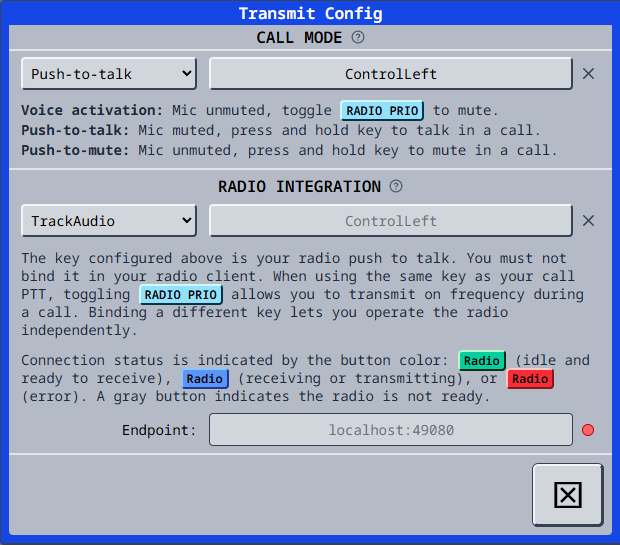
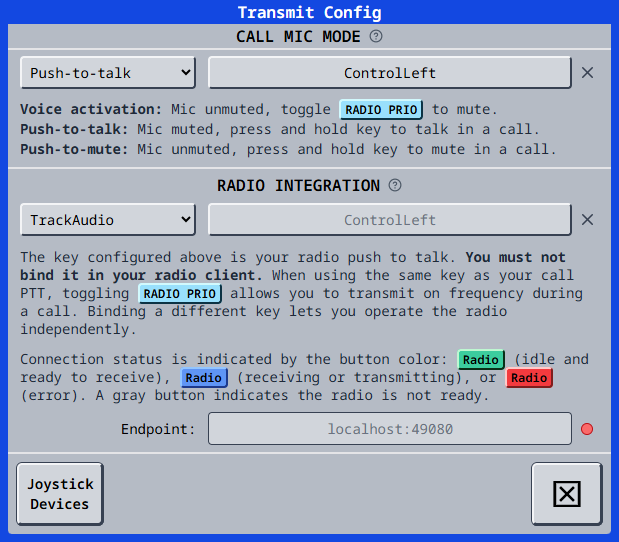
docs: prepare 2.6.0 release notes (#59)
* docs: reflect X11 hotkey and Audio for VATSIM support

* docs: document joystick bindings and keybind platform support

* docs: prepare 2.6.0 release notes

* docs: document joystick bindings and refresh the settings images

Covers binding a joystick button, the Joystick Devices dialog and the
platform support table.

The Hotkeys and Transmit dialog images predated the Joystick Devices button
that both dialogs now carry, and the Transmit ones still showed the pre-2.5
CALL MODE section, so all six are recaptured, along with the two images
showing how those pages are opened. The Hotkeys assign and clear callouts
are renumbered into the surrounding steps.

---------

diff --git a/docs/settings/hotkeys.md b/docs/settings/hotkeys.md
@@ -6,6 +6,8 @@ sidebar_position: 4
 
 The **Hotkeys Config** Menu allows you to assign keyboard shortcuts for common actions in vacs. These key bindings are optional, as all relevant actions can also be performed using Touch/Mouse Inputs.
 
+As of **vacs 2.6.0**, every binding field also accepts a **joystick or gamepad button**. See [Joystick and gamepad buttons](#joystick-and-gamepad-buttons) below.
+
 ---
 
 ## Opening Hotkeys Config
@@ -30,17 +32,17 @@ style={{
 
 To bind a key to an action:
 
-- Simply press the field showing **Not bound** or the relevant key binding next to the desired action.
-- Press the key (or key combination) you want to assign.
+- Simply press the field showing **Not bound** or the relevant key binding next to the desired action **(1)**.
+- Press the key (or key combination) you want to assign, or press a button on a connected joystick.
 - The field will update to display the selected binding.
 
 :::info[Clearing a Key Binding]
-Click the **✕** button on the right side of the row to remove the assigned key binding.
+Click the **✕** button on the right side of the row **(2)** to remove the assigned key binding.
 :::
 
 <img
 src="/img/settings/HotkeysConfigPage.png"
-alt="vacs Settings Page"
+alt="vacs Hotkeys Config, with the binding field and its clear button marked"
 style={{
     width: "45%",
     display: "block",
@@ -76,4 +78,85 @@ This action toggles the [RADIO PRIO](/using-vacs/making-a-call#radio-prio) butto
 The **RADIO PRIO** function is designed to operate together with the **Radio Integration** transmission mode.
 
 Its behavior and operational context are explained in detail in the **Interface / Overview** page.
+:::
+
+---
+
+## Joystick and gamepad buttons
+
+Available from **vacs 2.6.0**.
+
+Any binding in vacs can be a **joystick or gamepad button** instead of a keyboard key. This works for the actions on this page as well as for Push-to-Talk, Push-to-Mute and the Radio PTT key in the [Transmit Config](/settings/transmit).
+
+Typical devices for this are HOTAS throttles and yokes, flight sim button boxes, handsets and gamepads. No driver or configuration is required: connect the device before starting vacs, or plug it in while vacs is running, and its buttons become available immediately.
+
+### Binding a button
+
+Binding a button works exactly like binding a key:
+
+- Click the binding field. It shows **Press key or button** while it waits for your input.
+- Press the button on your device. You do not need to have the vacs window focused, and you do not need to keep it focused afterwards - joystick bindings work globally, just like keyboard bindings.
+- The field updates to show the button, for example **Button 3 (VPC Throttle)**.
+
+Only **buttons** can be bound. Axes, hats and triggers that report as an axis (common for gamepad triggers) cannot be used as a binding.
+
+<img
+src="/img/settings/HotkeysConfigPage-joystick.png"
+alt="vacs Hotkeys Config with an action bound to a joystick button"
+style={{
+    width: "45%",
+    display: "block",
+    margin: "1.5rem auto",
+    borderRadius: "8px",
+    boxShadow: "0 4px 16px rgba(0,0,0,0.08)"
+  }}
+/>
+
+:::note[How devices are recognized]
+vacs identifies a device by a hardware identifier rather than by the order it was plugged in, so your bindings survive unplugging the device, rebooting, and moving it to a different USB port.
+
+The flip side is that two **identical** devices (the same model twice) cannot be told apart. A binding made on one of them will also trigger on the other. Different products, for example a yoke and a throttle from the same manufacturer, are always distinguished correctly.
+:::
+
+### Joystick Devices
+
+Some devices, in particular flight sim throttles and button boxes, have **latched switches** rather than momentary buttons, or report a resting position as a permanently pressed button. Such a device reports "pressed" without you touching anything, which means it instantly wins any binding capture you start and makes it impossible to bind anything else.
+
+The **Joystick Devices** button in the header of the Hotkeys Config and Transmit Config dialogs opens a list of your devices where you can tick the ones vacs should **ignore while capturing**.
+
+<img
+src="/img/settings/JoystickDevices.png"
+alt="The Joystick Devices dialog with one device ignored"
+style={{
+    width: "45%",
+    display: "block",
+    margin: "1.5rem auto",
+    borderRadius: "8px",
+    boxShadow: "0 4px 16px rgba(0,0,0,0.08)"
+  }}
+/>
+
+The list contains every currently connected device, plus previously ignored devices that are unplugged right now, so their entry does not silently disappear.
+
+:::info
+Ignoring a device only excludes it from **capture**. Bindings you already made on that device keep working normally. This makes it a practical workflow for a chatty device: bind the button you want first, then tick the device so it stops interfering with your remaining bindings.
+:::
+
+---
+
+## Platform support
+
+Global bindings, meaning bindings that work while another application is focused, depend on what your operating system permits.
+
+| Platform | Keyboard keys | Joystick buttons |
+|---|---|---|
+| Windows | Bound in vacs. | Bound in vacs. |
+| macOS | Bound in vacs. Requires input monitoring and accessibility permissions, see [Requirements](/getting-started/requirements#macos). | Bound in vacs. |
+| Linux (X11) | Bound in vacs, from **vacs 2.6.0**. | Bound in vacs. |
+| Linux (Wayland) | Managed by your desktop environment, not by vacs. | Bound in vacs. |
+
+:::note[Linux with Wayland]
+Wayland does not allow an application to observe the keyboard while it is not focused. vacs therefore registers its actions as **system shortcuts** with your desktop environment, and you assign the actual keys there. The binding field shows the key your desktop has assigned in grey and cannot be edited in vacs; the **System Shortcuts** button next to **Joystick Devices** opens your desktop's shortcut settings.
+
+Joystick buttons are not affected by this restriction and are captured directly in vacs. Binding a joystick button to an action **replaces** the desktop shortcut for that action, and removing the button restores it.
 :::

diff --git a/docs/settings/transmit.md b/docs/settings/transmit.md
@@ -73,6 +73,10 @@ No key-binding is available or required in the **CALL MIC MODE** part of the dia
 
 Audio is transmitted only while the corresponding key is pressed. Assign a key by clicking into the field next to the mode dropdown and pressing your desired key once. Clear a binding with the **✕** button.
 
+:::tip[Joystick and gamepad buttons]
+From **vacs 2.6.0**, you can press a button on a connected joystick, HOTAS throttle or handset instead of a key, and vacs binds that button. This works for every binding field in this dialog. See [Joystick and gamepad buttons](/settings/hotkeys#joystick-and-gamepad-buttons).
+:::
+
 ### Push-to-Mute
 **Behavior during calls:**
 - The microphone is **unmuted by default**.
@@ -101,8 +105,8 @@ There are three options:
 - **TrackAudio**: vacs can connect to your TrackAudio client to trigger transmissions, manage radio & frequency state and play back radio transmissions.
 - **Audio for VATSIM**: vacs simulates a key press for you to trigger a radio transmission in AFV. The [radio page](/interface/radio) is not available. [Radio transmission playback](/interface/playback) is supported, but limited without callsign or frequency info, and only on Windows.
 
-:::warning[Audio for VATSIM is not available on Linux]
-The **Audio for VATSIM** integration relies on simulating a key press into the standalone AFV client, which is not supported on Linux. On Linux, only **None** and **TrackAudio** are available.
+:::warning[Audio for VATSIM is not available on Wayland]
+The **Audio for VATSIM** integration relies on simulating a key press into the standalone AFV client, which is not possible on Wayland-based Linux desktops. There, only **None** and **TrackAudio** are available. On X11 desktops, Audio for VATSIM works normally as of **vacs 2.6.0**; before that it was unavailable on Linux entirely.
 :::
 
 ### The Radio PTT key field

diff --git a/docs/getting-started/requirements.md b/docs/getting-started/requirements.md
@@ -24,8 +24,11 @@ Since vacs authenticates through [VATSIM Connect](https://vatsim.dev/services/co
 - An ALSA-compatible audio backend is required. This is usually automatically satisfied if you're running PulseAudio or Pipewire, which most modern Linux desktops use by default. The suggested audio packages are also included as dependencies for our packages
 
 :::note[Wayland users]
-If you're running a Wayland-based desktop (common on recent GNOME and KDE setups), there are some known issues and limitations. See the [Wayland](/known-issues-limitations/wayland) section of the [Known Issues & Limitations](/known-issues-limitations) page for details.  
-X11 support is currently limited.
+If you're running a Wayland-based desktop (common on recent GNOME and KDE setups), there are some known issues and limitations. See the [Wayland](/known-issues-limitations/wayland) section of the [Known Issues & Limitations](/known-issues-limitations) page for details.
+
+The most noticeable ones concern key bindings: on Wayland, keyboard shortcuts are managed by your desktop environment rather than by vacs, and the [Audio for VATSIM](/settings/transmit#radio-integration) radio integration cannot be used. See [Platform support](/settings/hotkeys#platform-support) for the full picture.
+
+X11 desktops are fully supported as of **vacs 2.6.0**, including global hotkeys and the Audio for VATSIM radio integration. Earlier versions did not support global key bindings on X11 at all.
 :::
 
 ### macOS

diff --git a/docs/settings/overview.md b/docs/settings/overview.md
@@ -74,6 +74,7 @@ Customize:
 - Transmit priorities
 - Call-related shortcuts
 - Other operational hotkeys
+- Joystick and gamepad buttons, and which devices to ignore while binding
 
 → See [Key Bindings](/settings/hotkeys)
 
@@ -87,6 +88,7 @@ Defines various call related behaviour and preferences, such as:
 - Priority calls
 - Automatic default call source selection based on current position
 - Call sounds
+- Always relaying call audio, for setups where a direct connection does not work
 
 → See [Call Settings](/settings/call)
 
